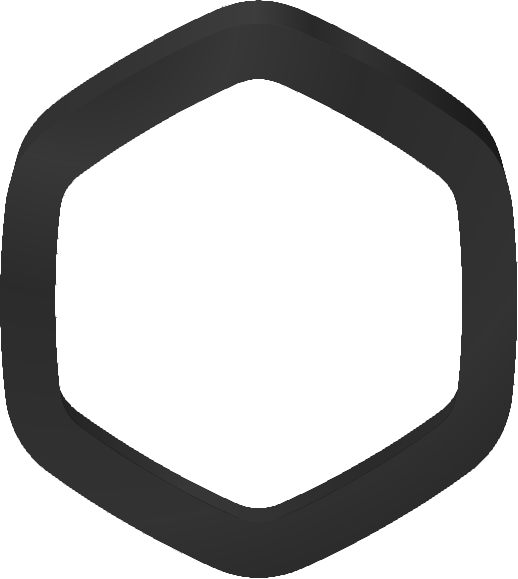
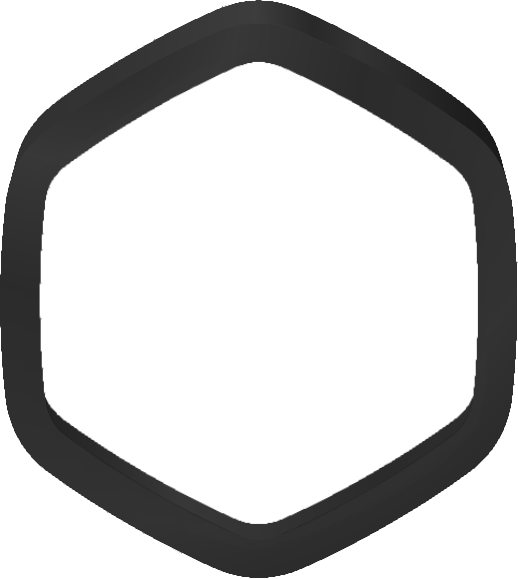
Shrink border thiccness & fix palestine border

Changed region(s): [[0.0618, 0.0933, 0.9266, 0.9016]]

diff --git a/src/components/ui/Avatar.tsx b/src/components/ui/Avatar.tsx
@@ -392,7 +392,7 @@ function ModBorder(props: {
       size={props.size}
       children={props.children}
       overlay={
-        <Overlays size={props.size} offset={-0.68} badges={props.badges} />
+        <Overlays size={props.size} offset={-0.78} badges={props.badges} />
       }
       color={props.color}
       url={props.avatarUrl}
@@ -417,7 +417,7 @@ function EmoSupporterBorder(props: {
       children={props.children}
       color={props.color}
       overlay={
-        <Overlays size={props.size} offset={-0.68} badges={props.badges} />
+        <Overlays size={props.size} offset={-0.78} badges={props.badges} />
       }
       url={props.avatarUrl}
       hovered={props.hovered}
@@ -440,7 +440,7 @@ function SupporterBorder(props: {
       type="supporter"
       children={props.children}
       overlay={
-        <Overlays size={props.size} offset={-0.68} badges={props.badges} />
+        <Overlays size={props.size} offset={-0.78} badges={props.badges} />
       }
       color={props.color}
       url={props.avatarUrl}
@@ -466,7 +466,7 @@ function AdminBorder(props: {
       children={props.children}
       color={props.color}
       overlay={
-        <Overlays size={props.size} offset={-0.68} badges={props.badges} />
+        <Overlays size={props.size} offset={-0.78} badges={props.badges} />
       }
       url={props.avatarUrl}
       hovered={props.hovered}
@@ -491,7 +491,7 @@ function FounderBorder(props: {
       children={props.children}
       color={props.color}
       overlay={
-        <Overlays size={props.size} offset={-0.68} badges={props.badges} />
+        <Overlays size={props.size} offset={-0.78} badges={props.badges} />
       }
       url={props.avatarUrl}
       hovered={props.hovered}
@@ -514,7 +514,7 @@ function PalestineBorder(props: {
       type="palestine"
       children={props.children}
       overlay={
-        <Overlays size={props.size} offset={-0.68} badges={props.badges} />
+        <Overlays size={props.size} offset={-0.78} badges={props.badges} />
       }
       color={props.color}
       url={props.avatarUrl}

diff --git a/src/components/avatar-borders/FounderAdminSupporterBorder.module.css b/src/components/avatar-borders/FounderAdminSupporterBorder.module.css
@@ -1,53 +1,51 @@
 .container {
+  position: relative;
   display: flex;
   align-items: center;
   justify-content: center;
-  aspect-ratio: 1/1;
   width: 100%;
   height: 100%;
   transition: 0.4s ease;
-  position: relative;
   transition: 0.4s ease;
-
+  aspect-ratio: 1/1;
 }
 
 .hover {
-  transform: scale(.8);
+  transform: scale(0.8);
 }
 
 .border {
-  width: 100%;
-  height: 100%;
-  object-fit: contain;
   position: absolute;
   z-index: 1111;
-  transform: scale(1.14);
+  width: 100%;
+  height: 100%;
   user-select: none;
+  transform: scale(1.14);
   pointer-events: none;
+  object-fit: contain;
 }
 
 .rawAvatar {
   position: absolute;
-  border-radius: 30%;
-  inset: 0;
-  overflow: hidden;
-  transform: scale(.9);
   z-index: 111;
+  overflow: hidden;
+  border-radius: 34%;
+  transform: scale(0.94);
+  inset: 0;
 }
 .background {
   position: absolute;
-  inset: 0;
-  user-select: none;
   z-index: -1;
+  user-select: none;
+  inset: 0;
 }
 .wing {
+  position: absolute;
   z-index: 11;
   height: 60%;
-  position: absolute;
-  transition: 0.4s ease;
   user-select: none;
+  transition: 0.4s ease;
   pointer-events: none;
-
 }
 
 .hover .wing {
@@ -58,7 +56,6 @@
 }
 .hover .rightWing {
   right: -30%;
-
 }
 .leftWing {
   left: 30%;

diff --git a/src/components/avatar-borders/FounderAdminSupporterBorder.tsx b/src/components/avatar-borders/FounderAdminSupporterBorder.tsx
@@ -23,7 +23,7 @@ export function FounderAdminSupporterBorder(props: {
     <div
       class={classNames(
         styles.container,
-        props.hovered ? styles.hover : undefined
+        props.hovered && props.type !== "palestine" ? styles.hover : undefined
       )}
     >
       <Show when={props.type !== "palestine"}>
